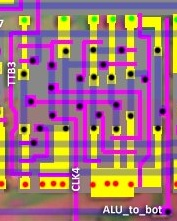
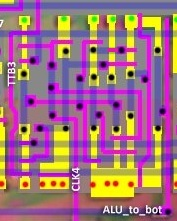
ALU_to_bot_tran

diff --git a/alu.md b/alu.md
@@ -1,8 +1,6 @@
 # ALU
 
-:warning: The section is in development.
-
-Status: Restoration and study is in progress.
+Status: Schematics of all the basic elements are obtained, you can reconstruct the overall circuit.
 
 ![locator_alu](/imgstore/locator_alu.png)
 
@@ -16,29 +14,32 @@ Status: Restoration and study is in progress.
 |CLK5|External| |
 |CLK6|External| |
 |CLK7|External| |
-|DV|Bottom| |
+|DV\[7:0\]|Bottom| |
 |AllZeros|NOR-8|1: The result (`Res`) is 0.|
 |TTB3|Thingy| |
-|d|Decoder1| |
-|w|Decoder2| |
-|x|Decoder3| |
-|alu|Bottom| |
+|d58|Decoder1| |
+|w (many)|Decoder2| |
+|x (many)|Decoder3| |
+|alu\[7:0\]|Bottom| |
 |bq4|Bottom Left| |
 |bq5|Bottom Left| |
 |bq7|Bottom Left| |
 |ALU_L1|Bottom| |
 |ALU_L2|Bottom| |
 |ALU_L4|Bottom| |
-|IR|IR| |
-|nIR|MightySix| |
+|IR\[7:0\]|IR| |
+|nIR\[5:0\]|MightySix| |
 
 ## ALU Outputs
 
 |Signal|To|Description|
 |---|---|---|
-|Res|Bottom| |
-|bc|Bottom Left| |
-|ALU_to_bot|Bottom| |
+|Res\[7:0\]|Bottom| |
+|bc1|Bottom Left| |
+|bc2|Bottom Left| |
+|bc3|Bottom Left| |
+|bc5|Bottom Left| |
+|ALU_to_bot|Bottom|TTB3 signal stored in the memory cell|
 |ALU_to_Thingy|Thingy| |
 |ALU_Out1|Sequencer| |
 
@@ -114,22 +115,22 @@ Large Comb 1 (_14 NAND trees_):
 
 ## LargeComb1 Nand Trees
 
-|Tree|CLK|Paths|
-|---|---|---|
-|alu_0|CLK2|{alu0}<br/>{w24,nIR3,nIR4,nIR5}<br/>{w10,IR5}<br/>{w10,IR4}<br/>{w10,IR3}|
-|alu_1|CLK6|{nIR0,w37,ALU_L5}<br/>{x10,ALU_L5}<br/>{ALU_L3,x12}<br/>{w12}<br/>{x26}<br/>{x19}<br/>{ALU_L1,d58}|
-|alu_2|CLK6|{f0,x1}<br/>{ALU_L2,d58}<br/>{nbc1,IR3,x21}<br/>{x21,nIR3}<br/>{x10,ALU_to_Thingy}<br/>{nbc2,ALU_to_Thingy,x22}<br/>{bc1,x22}<br/>{bc1,x26}<br/>{x0,f7}</br>{ALU_L0,x11}|
-|alu_3|CLK2|{alu1}<br/>{w24,IR3,nIR4,nIR5}<br/>{w10,IR5}<br/>{w10,IR4}<br/>{w10,nIR3}<br/>{x22,bc5}<br/>{x22,nbc2,bq4}|
-|alu_4|CLK2|{alu2}<br/>{x22,bq4,nbc2}<br/>{x22,bc5,nbc2}<br/>{w24,nIR3,IR4,nIR5}<br/>{w10,IR5}<br/>{w10,nIR4}<br/>{w10,IR3}|
-|alu_5|CLK2|{alu3}<br/>{w24,IR3,IR4,nIR5}<br/>{w10,nIR3}<br/>{w10,nIR4}<br/>{w10,IR5}<br/>{x22,bc5,bc2}|
-|alu_6|CLK2|{alu4}<br/>{x22,bc5,bc2}<br/>{w24,nIR3,nIR4,IR5}<br/>{w10,IR3}<br/>{w10,IR4}<br/>{w10,nIR5}|
-|alu_7|CLK6|{bc2,x22}<br/>{x12}<br/>{x26}<br/>{d58,ALU_L4}|
-|alu_8|CLK2|{alu5}<br/>{w24,IR3,nIR4,IR5}<br/>{w10,nIR3}<br/>{w10,IR4}<br/>{w10,nIR5}<br/>{x22,nbc5,bc1,bc2}<br/>{x22,bc5,nbc1,bc2}<br/>{x22,bq5,nbc2}<br/>{x22,bc1,nbc2}<br/>{x22,bq7,bq4,nbc2}|
-|alu_9|CLK2|{alu6}<br/>{w24,nIR3,IR4,IR5}<br/>{w10,IR3}<br/>{w10,nIR4}<br/>{w10,nIR5}<br/>{x22,bc5,nbc1,bc2}<br/>{x22,bq7,bq4,nbc2}<br/>{x22,bc1,nbc2}<br/>{x22,bq5,nbc2}|
-|alu_10|CLK2|{alu7}<br/>{w24,IR3,IR4,IR5}<br/>{w10,nIR3}<br/>{w10,nIR4}<br/>{w10,nIR5}<br/>{x22,bc5,bc2}<br/>{x22,bc1,bc2}|
-|alu_11|CLK6|{w0,nIR3,IR4,bc1}<br/>{w0,IR3,IR4,nbc1}<br/>{w0,IR3,nIR4,nbc3}<br/>{w0,nIR3,nIR4,bc3}|
-|alu_12|CLK6|{f0,w12,nIR3,nIR4,nIR5}<br/>{f1,w12,IR3,nIR4,nIR5}<br/>{f2,w12,nIR3,IR4,nIR5}<br/>{f3,w12,IR3,IR4,nIR5}<br/>{f4,w12,nIR3,nIR4,IR5}<br/>{f5,w12,IR3,nIR4,IR5}<br/>{f6,w12,nIR3,IR4,IR5}<br/>{f7,w12,IR3,IR4,IR5}<br/>{d42,AllZeros}<br/>{w3,AllZeros}<br/>{w37,AllZeros}<br/>{x22,AllZeros}<br/>{TTB3,d58}<br/>{bc3,w19}<br/>{bc3,x21}<br/>{bc3,w15}<br/>{bc3,x26}|
-|alu_13|CLK2|{w37,nIR0}<br/>{x27}<br/>{w9,bc1}<br/>{nbc1,x24}<br/>{nIR3,x24}<br/>{bc1,w19}<br/>{IR3,x23}|
+|Tree|CLK|Issued as|Paths|
+|---|---|---|---|
+|alu_0|CLK2|e0|{alu0}<br/>{w24,nIR3,nIR4,nIR5}<br/>{w10,IR5}<br/>{w10,IR4}<br/>{w10,IR3}|
+|alu_1|CLK6|bc5|{nIR0,w37,ALU_L5}<br/>{x10,ALU_L5}<br/>{ALU_L3,x12}<br/>{w12}<br/>{x26}<br/>{x19}<br/>{ALU_L1,d58}|
+|alu_2|CLK6|bc1|{f0,x1}<br/>{ALU_L2,d58}<br/>{nbc1,IR3,x21}<br/>{x21,nIR3}<br/>{x10,ALU_to_Thingy}<br/>{nbc2,ALU_to_Thingy,x22}<br/>{bc1,x22}<br/>{bc1,x26}<br/>{x0,f7}</br>{ALU_L0,x11}|
+|alu_3|CLK2|e1|{alu1}<br/>{w24,IR3,nIR4,nIR5}<br/>{w10,IR5}<br/>{w10,IR4}<br/>{w10,nIR3}<br/>{x22,bc5}<br/>{x22,nbc2,bq4}|
+|alu_4|CLK2|e2|{alu2}<br/>{x22,bq4,nbc2}<br/>{x22,bc5,nbc2}<br/>{w24,nIR3,IR4,nIR5}<br/>{w10,IR5}<br/>{w10,nIR4}<br/>{w10,IR3}|
+|alu_5|CLK2|e3|{alu3}<br/>{w24,IR3,IR4,nIR5}<br/>{w10,nIR3}<br/>{w10,nIR4}<br/>{w10,IR5}<br/>{x22,bc5,bc2}|
+|alu_6|CLK2|e4|{alu4}<br/>{x22,bc5,bc2}<br/>{w24,nIR3,nIR4,IR5}<br/>{w10,IR3}<br/>{w10,IR4}<br/>{w10,nIR5}|
+|alu_7|CLK6|bc2|{bc2,x22}<br/>{x12}<br/>{x26}<br/>{d58,ALU_L4}|
+|alu_8|CLK2|e5|{alu5}<br/>{w24,IR3,nIR4,IR5}<br/>{w10,nIR3}<br/>{w10,IR4}<br/>{w10,nIR5}<br/>{x22,nbc5,bc1,bc2}<br/>{x22,bc5,nbc1,bc2}<br/>{x22,bq5,nbc2}<br/>{x22,bc1,nbc2}<br/>{x22,bq7,bq4,nbc2}|
+|alu_9|CLK2|e6|{alu6}<br/>{w24,nIR3,IR4,IR5}<br/>{w10,IR3}<br/>{w10,nIR4}<br/>{w10,nIR5}<br/>{x22,bc5,nbc1,bc2}<br/>{x22,bq7,bq4,nbc2}<br/>{x22,bc1,nbc2}<br/>{x22,bq5,nbc2}|
+|alu_10|CLK2|e7|{alu7}<br/>{w24,IR3,IR4,IR5}<br/>{w10,nIR3}<br/>{w10,nIR4}<br/>{w10,nIR5}<br/>{x22,bc5,bc2}<br/>{x22,bc1,bc2}|
+|alu_11|CLK6|ALU_Out1|{w0,nIR3,IR4,bc1}<br/>{w0,IR3,IR4,nbc1}<br/>{w0,IR3,nIR4,nbc3}<br/>{w0,nIR3,nIR4,bc3}|
+|alu_12|CLK6|bc3|{f0,w12,nIR3,nIR4,nIR5}<br/>{f1,w12,IR3,nIR4,nIR5}<br/>{f2,w12,nIR3,IR4,nIR5}<br/>{f3,w12,IR3,IR4,nIR5}<br/>{f4,w12,nIR3,nIR4,IR5}<br/>{f5,w12,IR3,nIR4,IR5}<br/>{f6,w12,nIR3,IR4,IR5}<br/>{f7,w12,IR3,IR4,IR5}<br/>{d42,AllZeros}<br/>{w3,AllZeros}<br/>{w37,AllZeros}<br/>{x22,AllZeros}<br/>{TTB3,d58}<br/>{bc3,w19}<br/>{bc3,x21}<br/>{bc3,w15}<br/>{bc3,x26}|
+|alu_13|CLK2|ALU_to_top|{w37,nIR0}<br/>{x27}<br/>{w9,bc1}<br/>{nbc1,x24}<br/>{nIR3,x24}<br/>{bc1,w19}<br/>{IR3,x23}|
 
 The result is an AND-to-NOR tree (using alu_0 as an example):
 
@@ -154,3 +155,7 @@ Regular memory cell with write enable (x28/x29). It also contains a Precharge FE
 ### ALU_to_bot
 
 ![ALU_to_bot](/imgstore/modules/ALU_to_bot.jpg)
+
+![ALU_to_bot_tran](/imgstore/modules/ALU_to_bot_tran.jpg)
+
+A regular memory cell, for storing the `TTB3` signal. The signal CLK4 acts as WriteEnable.
